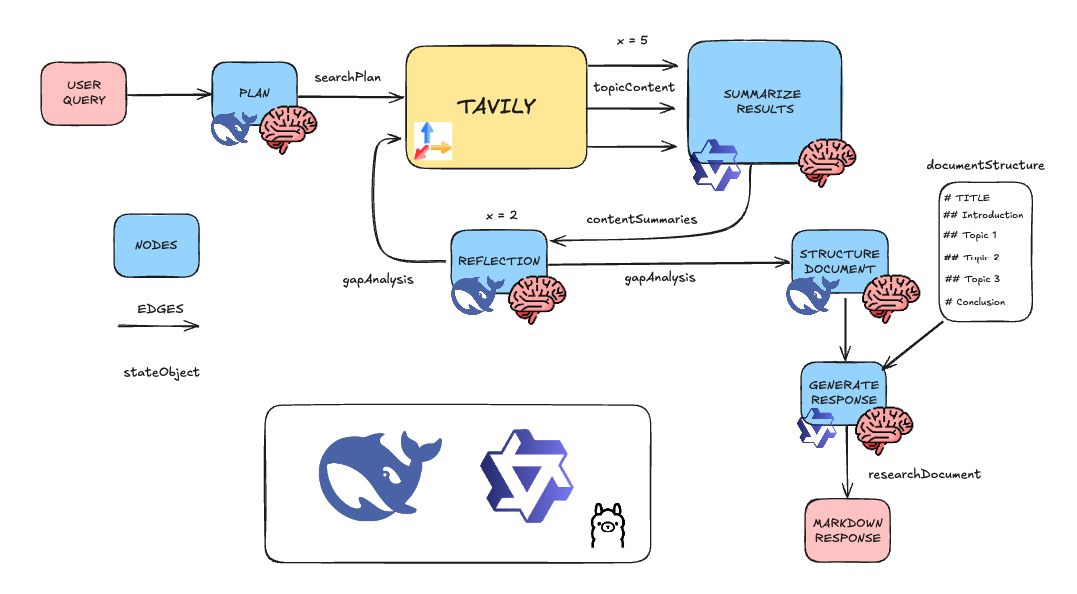
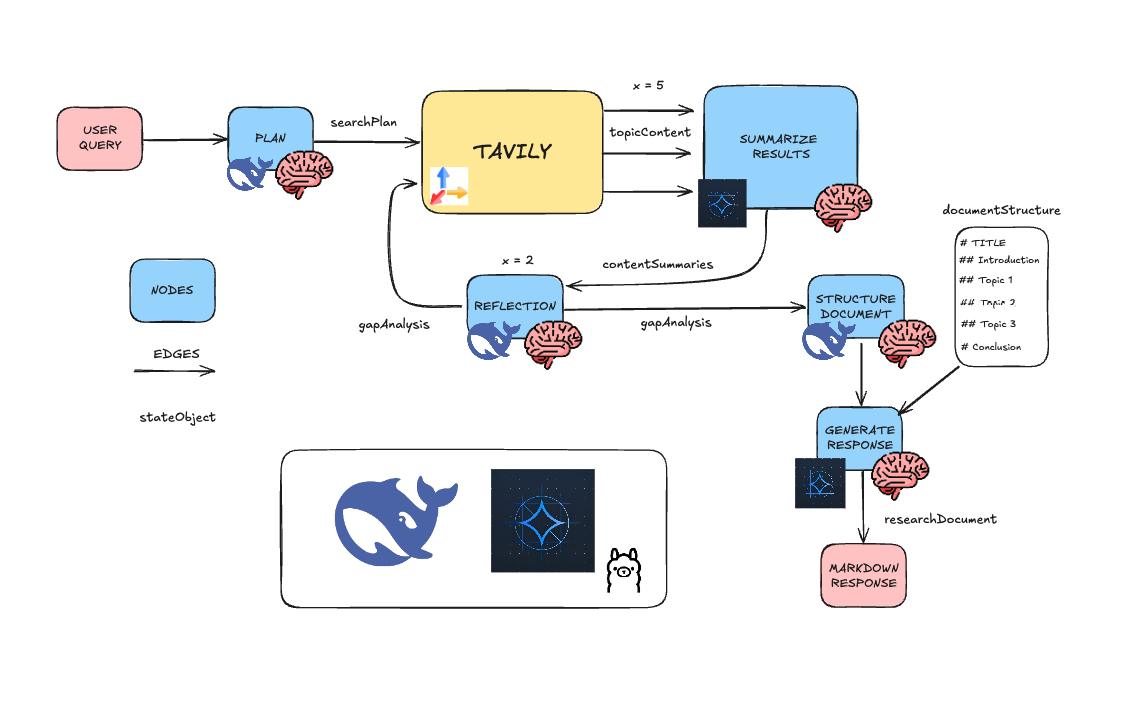
Update LLM model for content generation
- Replace Qwen 2.5 (7b) with Gemma 2 (8b) for content generation
- Update environment configuration to use Gemma 2 model
- Update README.md to reflect the new model
- Update graph visualization

diff --git a/README.md b/README.md
@@ -2,7 +2,7 @@
 
 Una alternativa open source a DeepResearch de OpenAI (200$/mes) que permite investigar cualquier tema y generar documentos de investigación con datos factuales. El proyecto utiliza LangChain y LangGraph junto con modelos LLM de código abierto:
 - **DeepSeek R1 (8b)**: Para el análisis y planificación
-- **Qwen 2.5 (7b)**: Para la generación de contenido
+- **Gemma 2 (8b)**: Para la generación de contenido
 - **Tavily API**: Para búsquedas web eficientes y extracción de contenido
 
 Un sistema avanzado de investigación impulsado por IA que utiliza modelos de lenguaje y búsqueda web para generar documentos de investigación detallados y bien estructurados.
@@ -121,7 +121,7 @@ NODE_ENV=development
 API_PREFIX=/api/v1
 OLLAMA_BASE_URL=http://localhost:11434
 TAVILY_API_KEY=your_tavily_api_key_here
-GENERATION_MODEL=qwen2.5:7b
+GENERATION_MODEL=gemma2
 THINKING_MODEL=deepseek-r1:8b
 MAX_ANALYSIS_COUNT=2
 MAX_RESULTS=1
